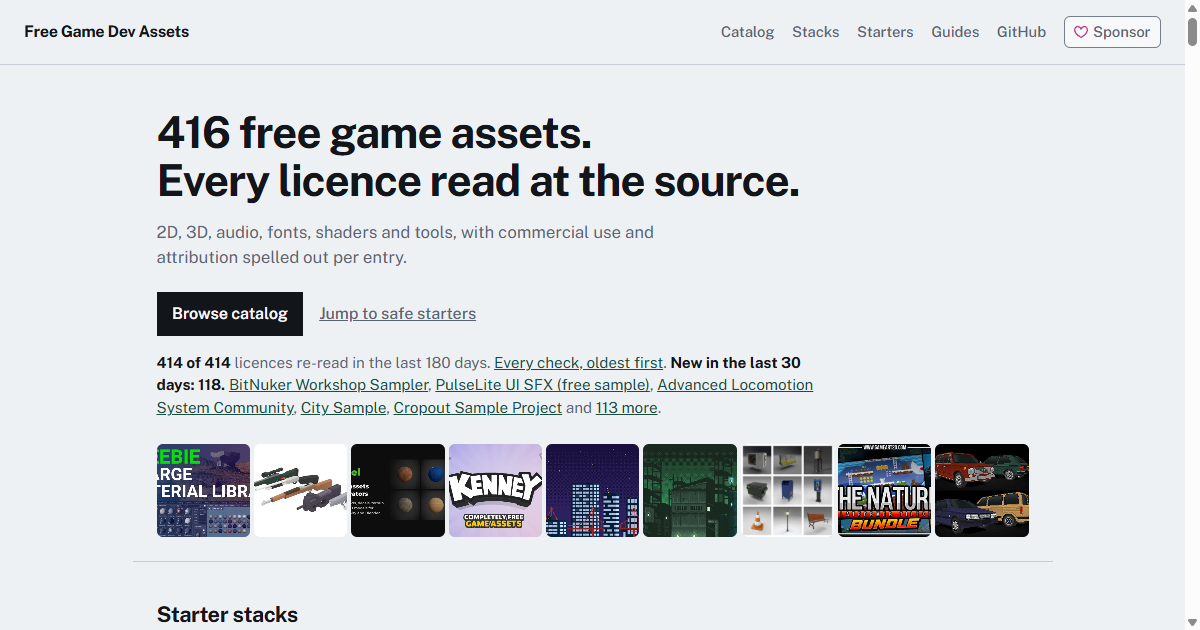
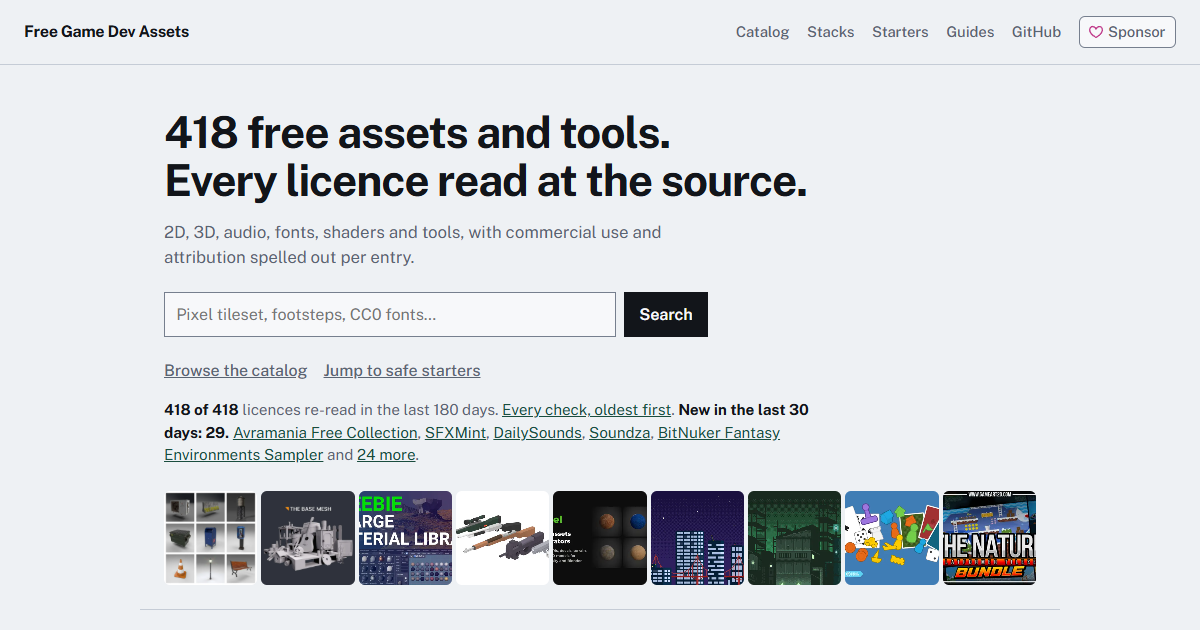
counts: one listed-source number everywhere; retake the README screenshot
The README badge and links said 418 sources while the screenshot under
them (docs/images/readme/og-card.png, also the social card) still showed
"416 free game assets" and "414 of 414 licences" from 2026-10-23. It is
retaken from the current build: 418 and 418 of 418.

The site disagreed with itself too: the hero said 418 while every page
footer said "Built ... from 421 catalog entries" and the catalog said
"418 of 421 entries shown". The 421 includes the 3 deprecated entries,
which are hidden by default. Footers now count listed sources (418), and
the result line counts deprecated entries only once their switch is on,
so the default view reads "418 of 418 sources shown".

npm run counts now reminds you to retake the screenshot when the count
changes, and site/README.md gives the steps.

Claude-Session: https://claude.ai/code/session_01LpkeXQPaUhxjgqdqnk6BrJ

diff --git a/site/public/app.js b/site/public/app.js
@@ -392,7 +392,11 @@ import { PERSPECTIVES } from "./shared.mjs";
     const grid = $("#entry-grid");
     const empty = $("#empty-state");
     const group = shouldGroup();
-    $("#result-count").textContent = `${list.length} of ${data.entries.length} entries shown`;
+    // The denominator is what the status switches could show: deprecated
+    // entries count only once their switch is on, so the default view reads
+    // "418 of 418", matching the hero and the README.
+    const pool = state.deprecated ? data.entries.length : data.entries.filter((e) => e.status !== "deprecated").length;
+    $("#result-count").textContent = `${list.length} of ${pool} sources shown`;
     empty.hidden = list.length > 0;
     renderSuggestions(list.length ? "" : state.q);
     if (!list.length) {

diff --git a/site/README.md b/site/README.md
@@ -194,8 +194,10 @@ with `node site/reverify-batch.mjs` (`npm run reverify`).
 ## Social preview
 
 `docs/images/readme/og-card.png` is a 1200x630 screenshot of this site's first screen.
-`build.mjs` copies it into `dist` and emits the `og:image` and `twitter:image` tags.
-Retake it when the hero changes.
+`build.mjs` copies it into `dist` and emits the `og:image` and `twitter:image` tags. The
+README shows it too, and the hero states the entry count, so retake it whenever that count
+changes (`npm run counts` reminds you) or the hero changes: `npm run build && npm run serve`,
+then capture the top 1200x630 of `http://127.0.0.1:3000/` in light mode, with no scrollbar.
 
 ## Commands
 
